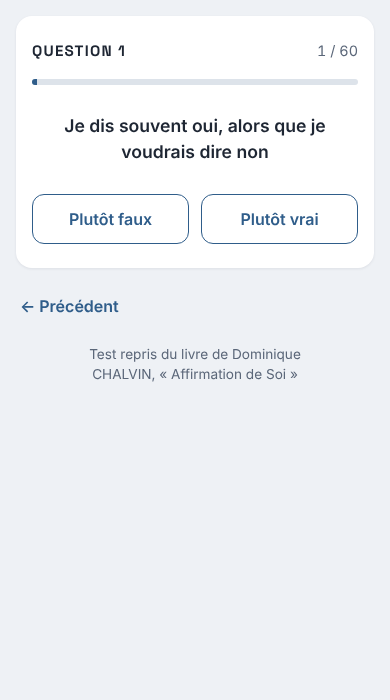
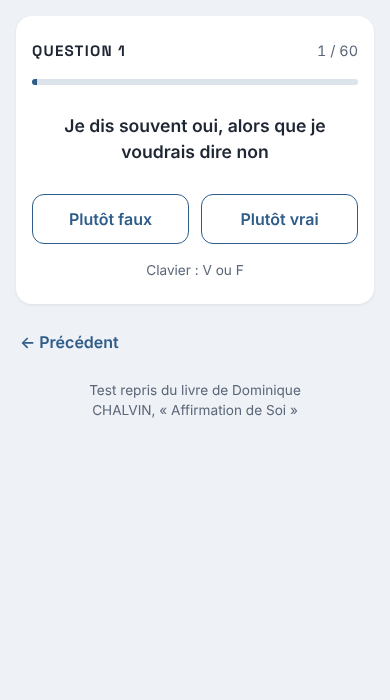
feat: AA contrast, screenshots and version 0.4.0
Posture colors darkened to reach 4.5:1, unselected posture buttons keep
readable text, stronger focus outline. axe finds no WCAG A/AA issue on any
screen and Lighthouse accessibility scores 100.

diff --git a/src/styles/tokens.css b/src/styles/tokens.css
@@ -8,12 +8,12 @@
     --color-primary: #2f5d8a;
     --color-primary-hover: #264d73;
     --color-on-primary: #ffffff;
-    --color-focus: #f2a541;
+    --color-focus: #c9780e;
 
-    --color-flight: #7a8ca5;
-    --color-aggression: #c8553d;
-    --color-manipulation: #8e6bb0;
-    --color-assertiveness: #2e8b6e;
+    --color-flight: #627691;
+    --color-aggression: #c35037;
+    --color-manipulation: #8964ac;
+    --color-assertiveness: #2b8368;
 
     --font-body: "Inter", system-ui, -apple-system, "Segoe UI", sans-serif;
     --font-display: "Space Grotesk", "Inter", system-ui, sans-serif;

diff --git a/src/styles/main.css b/src/styles/main.css
@@ -319,8 +319,9 @@ h1 {
     color: var(--color-on-primary);
 }
 
+/* Postures non choisies : texte toujours lisible, seul le contour s'efface */
 .posture-button.is-dimmed {
-    opacity: 0.4;
+    border-color: var(--color-line);
 }
 
 .posture-card {

diff --git a/CHANGELOG.md b/CHANGELOG.md
@@ -5,12 +5,16 @@ Format : [Keep a Changelog](https://keepachangelog.com/fr/1.1.0/), versions : [S
 
 ## [Non publié]
 
+## [0.4.0] - 2026-11-27
+
 ### Ajouté
 
 - Charte graphique : palette « Ardoise », une couleur par posture, polices Inter et Space Grotesk incluses dans le site (sans Google Fonts).
 - Bouton « Commencer » et durée indicative sur l'accueil.
 - Icône d'onglet et titre « Test d'assertivité ».
 - Maquettes v0.4.0 dans `docs/maquettes/v0.4.0/`, captures dans `docs/screens/v0.4.0/`.
+- Raccourcis clavier : V ou F pour répondre, ← et → pour naviguer ; aide « Clavier : V ou F » sous les réponses (masquée sur écran tactile).
+- Reprise d'un test interrompu : les réponses sont sauvegardées dans le navigateur, l'accueil propose « Recommencer » ou « Reprendre (question N) ».
 
 ### Modifié
 
@@ -20,6 +24,7 @@ Format : [Keep a Changelog](https://keepachangelog.com/fr/1.1.0/), versions : [S
 - Accents ajoutés aux titres (RÈGLES, TES RÉSULTATS) ; « faîtes » corrigé en « faites ».
 - Espaces insécables avant « : ; ? ! » et à l'intérieur des guillemets, pour éviter un signe seul en début de ligne.
 - Texte courant justifié, avec césure française pour éviter les grands blancs.
+- Contraste AA : couleurs des postures légèrement foncées, boutons de posture non choisis lisibles (contour gris au lieu d'être pâlis), contour de focus orange plus soutenu.
 
 ## [0.3.0] - 2026-11-26
 
@@ -78,7 +83,8 @@ Format : [Keep a Changelog](https://keepachangelog.com/fr/1.1.0/), versions : [S
 
 - `results.html` et `results.js`, qui ne fonctionnaient pas ; leurs textes sont conservés dans `src/data/content.json` pour la v0.3.0.
 
-[Non publié]: https://github.com/VincentLesniak/AssertivenessProject/compare/v0.3.0...HEAD
+[Non publié]: https://github.com/VincentLesniak/AssertivenessProject/compare/v0.4.0...HEAD
+[0.4.0]: https://github.com/VincentLesniak/AssertivenessProject/compare/v0.3.0...v0.4.0
 [0.3.0]: https://github.com/VincentLesniak/AssertivenessProject/compare/v0.2.0...v0.3.0
 [0.2.0]: https://github.com/VincentLesniak/AssertivenessProject/compare/v0.1.0...v0.2.0
 [0.1.0]: https://github.com/VincentLesniak/AssertivenessProject/releases/tag/v0.1.0

diff --git a/README.md b/README.md
@@ -83,6 +83,8 @@ Les captures des versions précédentes sont dans [`docs/screens/`](docs/screens
 | Détail : manipulateur                   | <img src="docs/screens/v0.4.0/desktop-10-detail-manipulateur.png" width="340" alt="Détail : manipulateur, ordinateur" />                        | <img src="docs/screens/v0.4.0/mobile-10-detail-manipulateur.png" width="200" alt="Détail : manipulateur, mobile" />                        |
 | Détail : assertif                       | <img src="docs/screens/v0.4.0/desktop-11-detail-assertif.png" width="340" alt="Détail : assertif, ordinateur" />                                | <img src="docs/screens/v0.4.0/mobile-11-detail-assertif.png" width="200" alt="Détail : assertif, mobile" />                                |
 | Conclusion                              | <img src="docs/screens/v0.4.0/desktop-12-conclusion.png" width="340" alt="Conclusion, ordinateur" />                                            | <img src="docs/screens/v0.4.0/mobile-12-conclusion.png" width="200" alt="Conclusion, mobile" />                                            |
+| Reprise d'un test en cours              | <img src="docs/screens/v0.4.0/desktop-13-reprise.png" width="340" alt="Reprise d'un test en cours, ordinateur" />                               | <img src="docs/screens/v0.4.0/mobile-13-reprise.png" width="200" alt="Reprise d'un test en cours, mobile" />                               |
+| Navigation au clavier (focus visible)   | <img src="docs/screens/v0.4.0/desktop-14-clavier-focus.png" width="340" alt="Navigation au clavier, ordinateur" />                              | Sans objet sur mobile                                                                                                                      |
 
 ## Maquettes
 

diff --git a/docs/decisions/0002-charte-graphique-v0.4.md b/docs/decisions/0002-charte-graphique-v0.4.md
@@ -2,7 +2,7 @@
 
 Date : 2026-11-27 · Statut : validé
 
-- Palette A « Ardoise » : fond `#eef1f5`, texte `#1e2633`, principale `#2f5d8a`. Postures : passif `#7a8ca5`, agressif `#c8553d`, manipulateur `#8e6bb0`, assertif `#2e8b6e`. Valeurs dans `src/styles/tokens.css`.
+- Palette A « Ardoise » : fond `#eef1f5`, texte `#1e2633`, principale `#2f5d8a`. Postures : passif `#627691`, agressif `#c35037`, manipulateur `#8964ac`, assertif `#2b8368` (foncées en v0.4.0 partie 2 pour atteindre le contraste AA 4,5:1, focus `#c9780e` à 3,4:1). Valeurs dans `src/styles/tokens.css`.
 - Typographie 1 : Inter (texte) et Space Grotesk (titres), incluses via `@fontsource`, sans appel à Google Fonts (RGPD).
 - Mise en page en colonne, 640 px maximum, marges de 16 px sur mobile, boutons d'au moins 48 px.
 - Réponse choisie remplie de la couleur principale avec une coche ; navigation « ← Précédent » / « Suivant → ».
